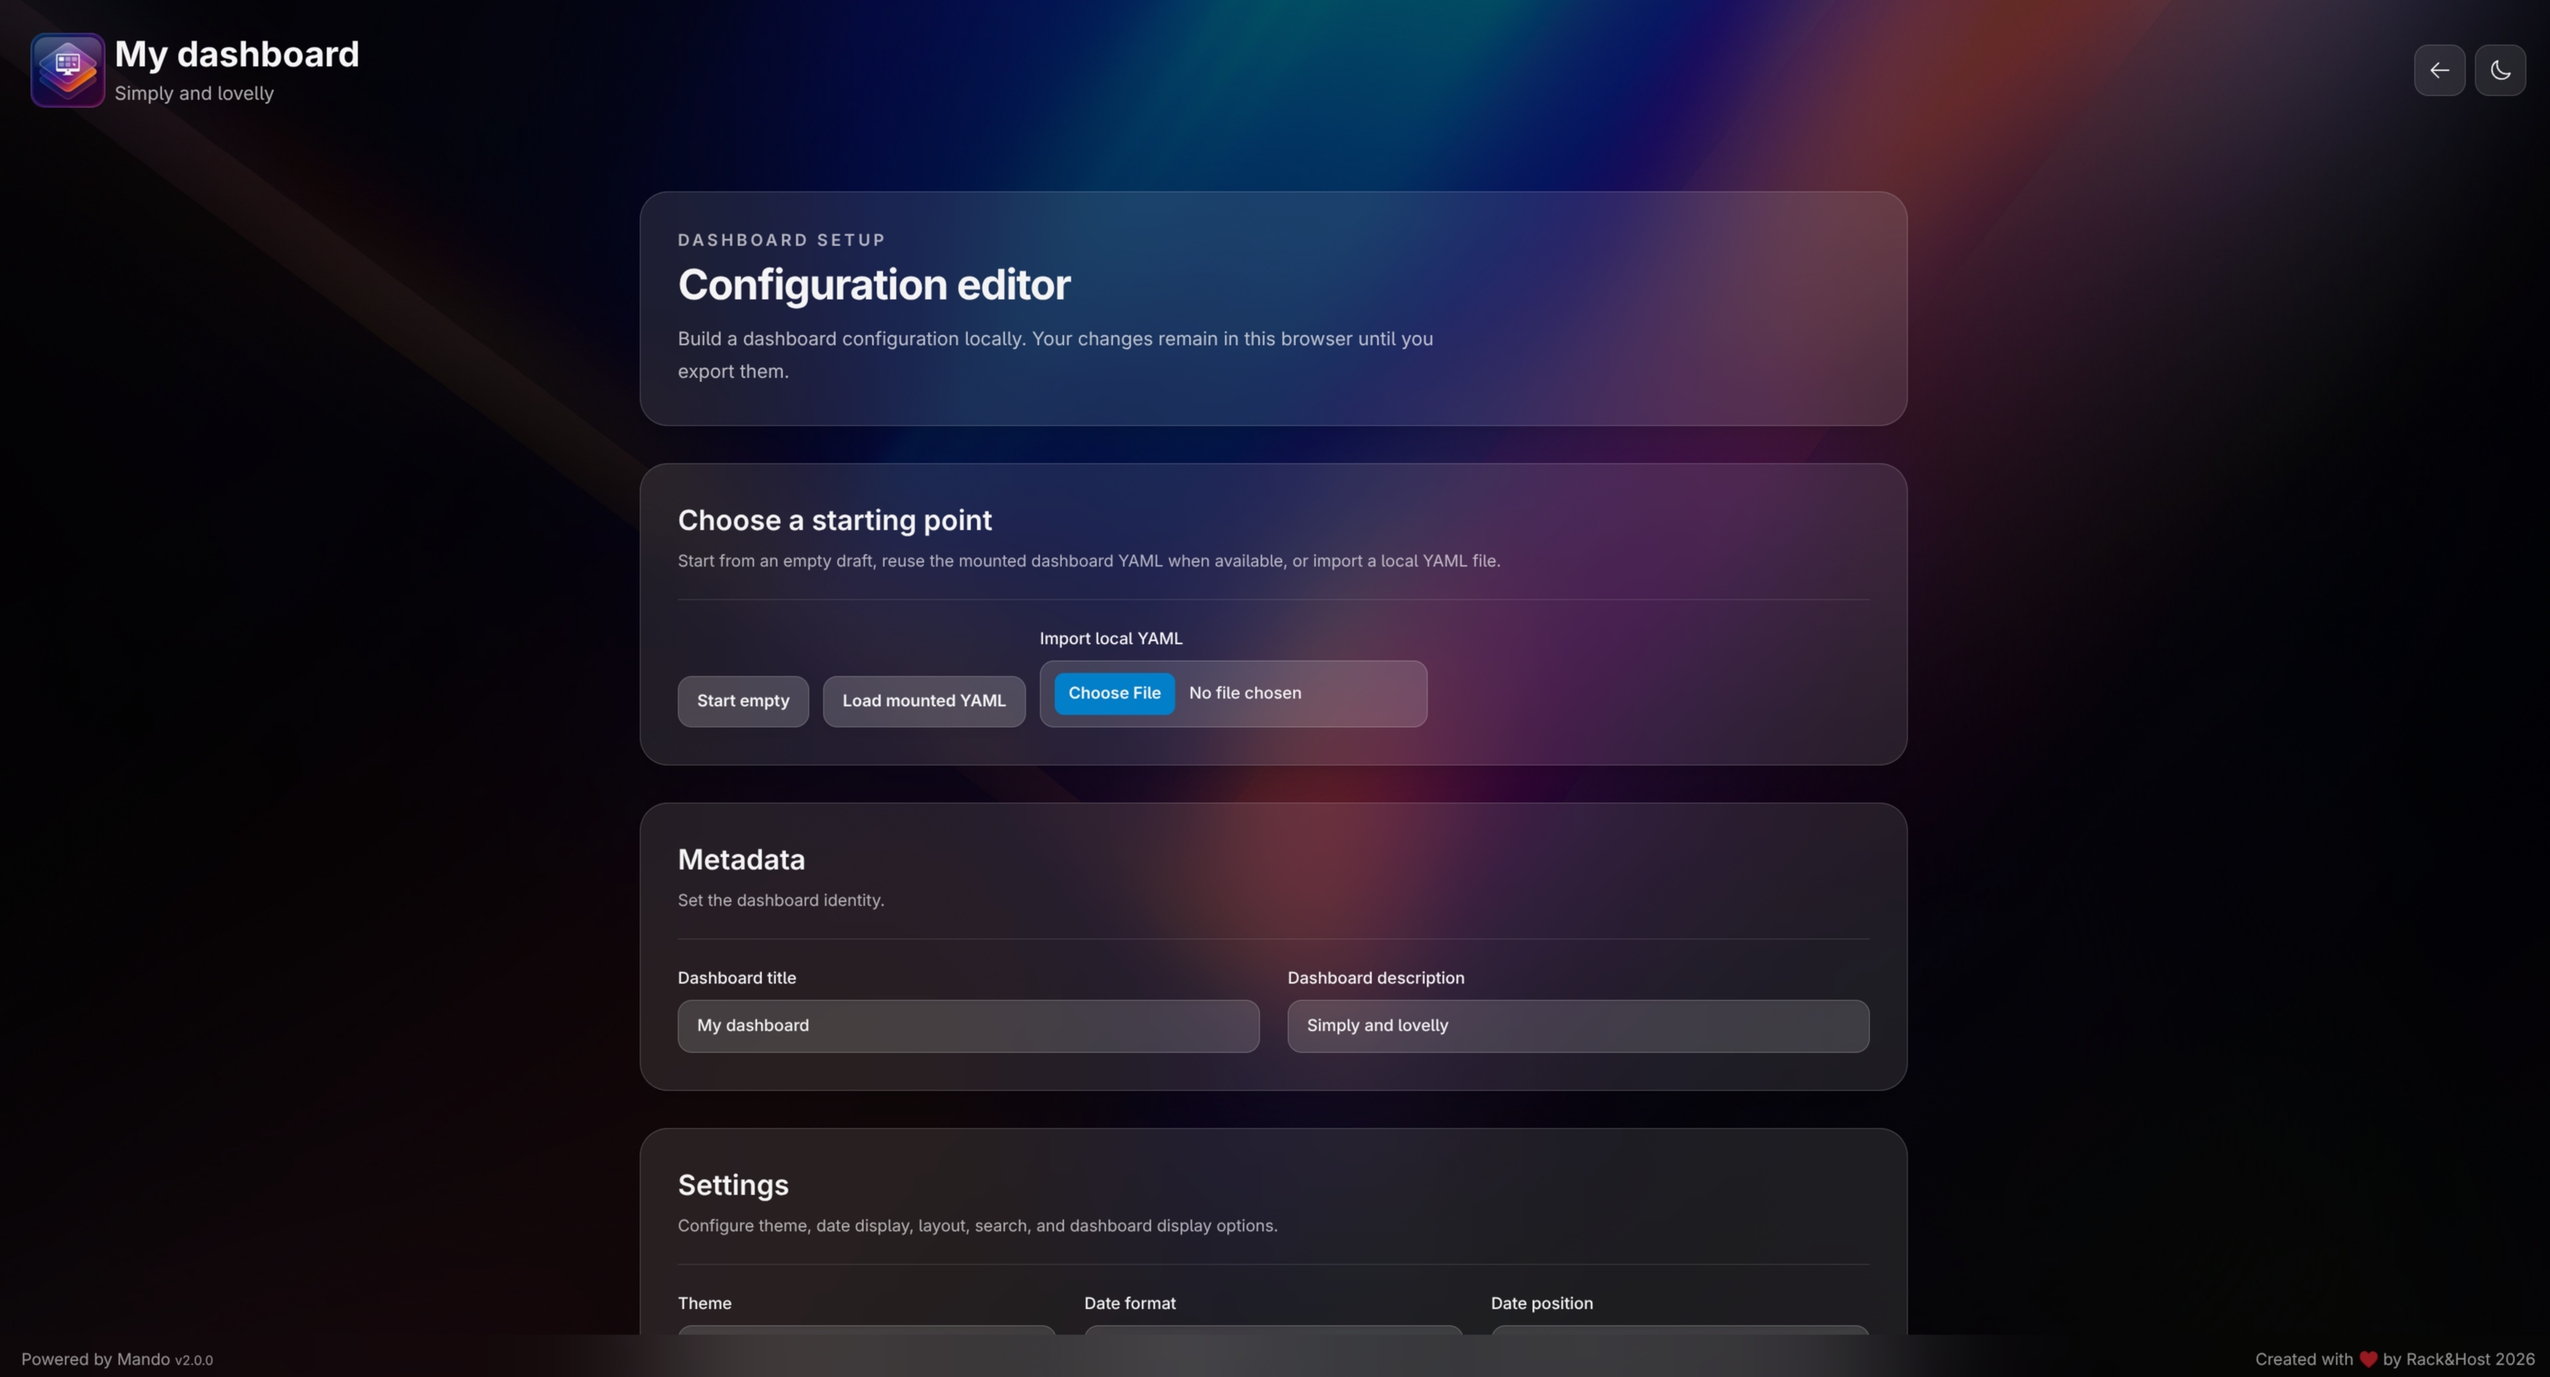
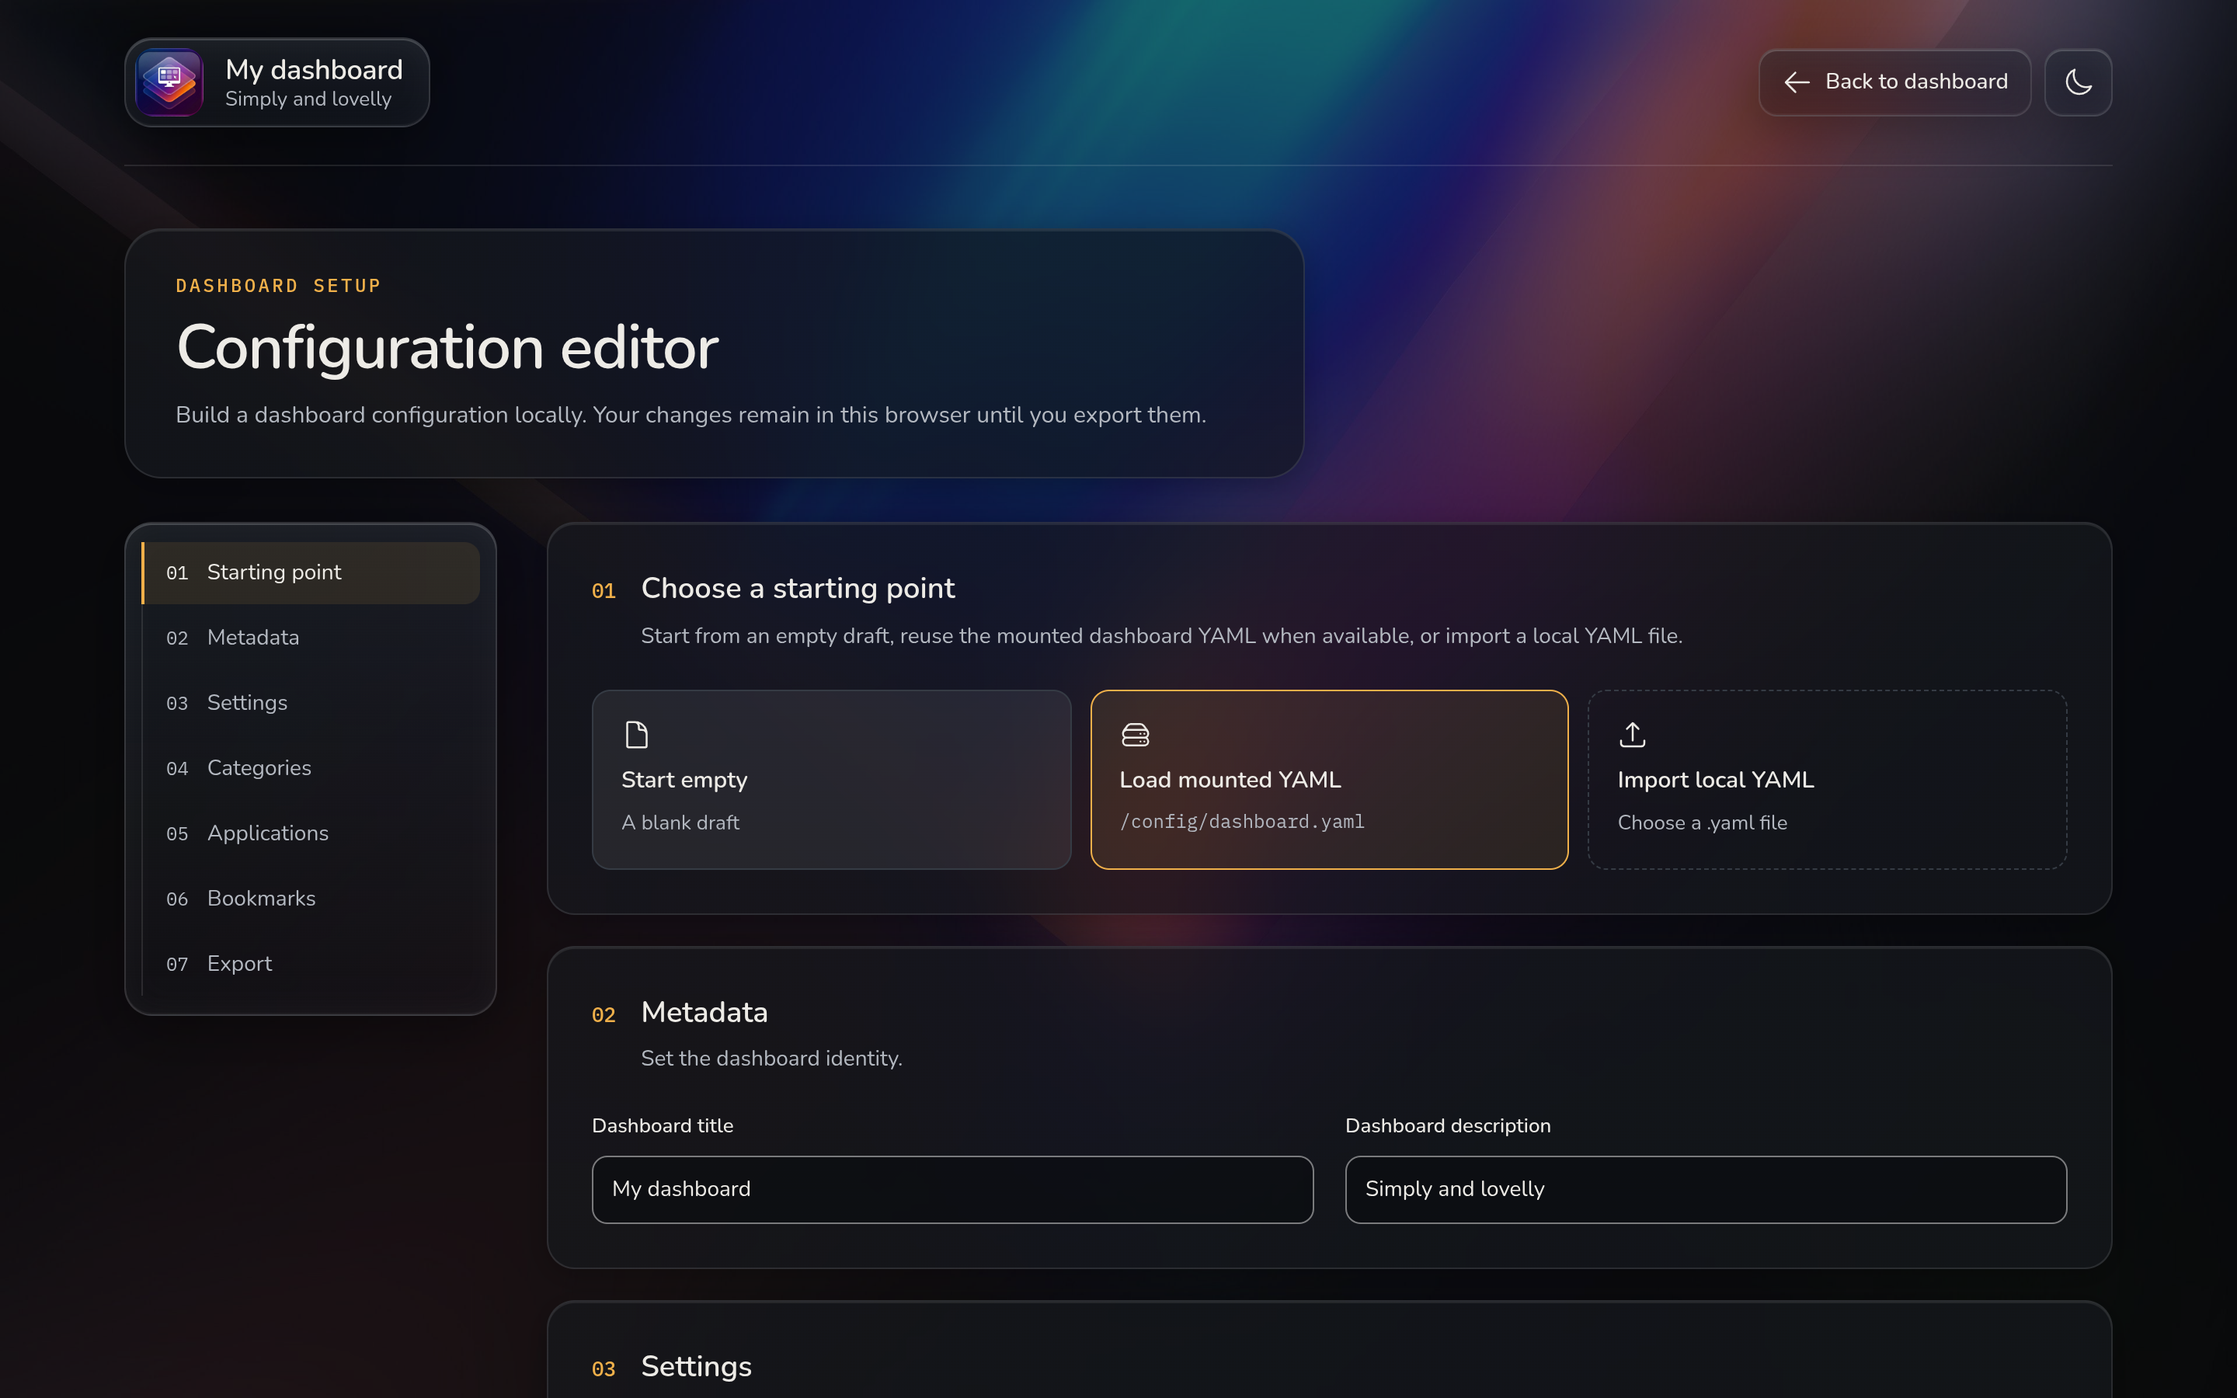
docs: update README, ARCHITECTURE, CHANGELOG and screenshots for the UI redesign

diff --git a/src/styles/surfaces.css b/src/styles/surfaces.css
@@ -1,5 +1,5 @@
 /*
- * Surface recipes of the "Consola" redesign (design.md § 3.2, spec design-system "Glass surfaces with a
+ * Surface recipes of the UI redesign (design.md § 3.2, spec design-system "Glass surfaces with a
  * legibility floor"). Components take a recipe class and add only their own radius and layout.
  *
  * glass-chrome  header chip, buttons, search bar, tab bar, footer, sticky bands   floor --floor-bar

diff --git a/src/styles/tokens.css b/src/styles/tokens.css
@@ -1,5 +1,5 @@
 /*
- * Design tokens of the "Consola" redesign (design.md § 3.1, § 3.2, with the accessibility amendments).
+ * Design tokens of the UI redesign (design.md § 3.1, § 3.2, with the accessibility amendments).
  * Light set on :root, dark set under the `dark` class that ThemeService puts on <html>.
  * Every token is declared in both sets. Contrast is enforced by src/styles/design-tokens.spec.ts.
  */

diff --git a/src/styles/base.css b/src/styles/base.css
@@ -1,5 +1,5 @@
 /*
- * Base layer of the "Consola" redesign (design.md § 3, § 4.1, § 5): page background and scrim, scroll
+ * Base layer of the UI redesign (design.md § 3, § 4.1, § 5): page background and scrim, scroll
  * stability, focus ring and reduced motion. Colours come from tokens.css.
  */
 

diff --git a/ARCHITECTURE.md b/ARCHITECTURE.md
@@ -66,11 +66,15 @@ src/
       errors/             last-resort global error handling
       initializers/       startup orchestration
       models/             Zod schemas, inferred types, defaults, shared validation
+      scroll/             ScrollStateService, its pure core and the browser metrics token
       services/           configuration, state, domain operations, and diagnostics
     features/
       configurator/       browser-based YAML editor, loaded as a lazy route
-    shared/components/    reusable or feature-level presentation components
+    shared/
+      components/         reusable or feature-level presentation components
+      directives/         sticky dock and horizontal-nav directives
     views/dashboard/      dashboard page composition
+  styles/                 design tokens, glass surface recipes, base layer, self-hosted fonts
   testing/                shared test helpers and tooling regression tests
 public/
   config/                 runtime YAML and user-facing example
@@ -118,9 +122,11 @@ through the `getmando.code-workspace` multi-root workspace.
 [app.routes.ts](src/app/app.routes.ts) declares two routes. `''` renders `DashboardComponent`
 directly. `configure` lazy-loads `CONFIGURATOR_ROUTES`, which provides `ConfiguratorStore` and
 renders `ConfiguratorPageComponent`. [AppShellComponent](src/app/shared/components/app-shell/app-shell.component.ts)
-— a fixed header, a scrollable `<router-outlet>`, and a fixed footer — wraps both routes.
-`AppHeaderComponent` derives one navigation control from the active URL that toggles between the
-dashboard and the configurator.
+is a centred page container (max 1360 px) shared by both routes: the window scrolls, the routed page
+renders its own `AppHeaderComponent` and sticky chrome, and the shell appends the footer in normal
+flow. `AppHeaderComponent` derives one navigation control from the active URL that toggles between
+the dashboard and the configurator; each page decides how its header compacts (see Scroll State
+and Sticky Chrome).
 
 ## Startup and Configuration
 
@@ -324,6 +330,8 @@ Examples:
   the `configure` route.
 - `AppStatusService` owns the statuses signal keyed by application id and its polling lifecycle (see
   App Status Checks).
+- `ScrollStateService` owns one scroll state (`static`, `top` or `scrolled`) per sticky chrome (see
+  Scroll State and Sticky Chrome).
 
 Use RxJS for HTTP, browser event streams, debounce, or multi-source asynchronous orchestration. Do
 not introduce `BehaviorSubject` as a general store or wrap synchronous signal state in observables.
@@ -348,6 +356,56 @@ settings and resolved theme.
 Storage failures are non-fatal. A read failure logs and warns, then falls back to configured theme.
 A write failure logs and warns, while preserving the user's selection for the current session. The
 YAML setting itself is not written to browser storage.
+
+## Design Tokens and Glass Surfaces
+
+The look comes from three CSS files under [src/styles](src/styles), imported by `styles.css`:
+
+- [tokens.css](src/styles/tokens.css) declares every colour, radius, shadow, glass blur and
+  legibility floor twice: the light set on `:root` and the dark set under the `dark` class that
+  `ThemeService` puts on `<html>`. A token exists in both sets or in neither.
+- [surfaces.css](src/styles/surfaces.css) holds the recipes `glass-chrome`, `glass-clock`,
+  `glass-card` and `glass-field`. A component takes a recipe class and adds only its own radius and
+  layout. Each glass surface paints an opaque `--surface` floor of token-defined opacity under a
+  translucent glass layer, so text keeps its contrast over any user-configured background photo;
+  without `backdrop-filter` support the opaque fallback is painted instead.
+- [base.css](src/styles/base.css) holds the page background and scrim, the two-tone focus ring,
+  the reduced-motion rules, `scrollbar-gutter: stable` and the smooth scrolling that applies only
+  while the configurator is mounted. [fonts.css](src/styles/fonts.css) declares the self-hosted
+  Nunito and IBM Plex Mono Latin subsets.
+
+[design-tokens.spec.ts](src/styles/design-tokens.spec.ts) measures every text / surface pair of both
+themes, with and without `backdrop-filter`, through `src/testing/token-audit.ts`. Changing a token
+or a recipe is verified there before any browser check.
+
+## Scroll State and Sticky Chrome
+
+The dashboard dock (clock, search and categories), the mobile dock and the configurator header are
+sticky chromes that compact once the page scrolls. They share one decision-maker,
+[ScrollStateService](src/app/core/scroll/scroll-state.service.ts), instead of each listening to
+scroll on its own.
+
+- A chrome registers a `ChromeProbe` (`id`, `compactDelta`: the height it loses when compact, and
+  `minViewportHeight`) through
+  [StickyDockDirective](src/app/shared/directives/sticky-dock.directive.ts) and receives a signal
+  `static | top | scrolled`. The directive exposes it as `data-dock` and exposes the live height as
+  `--dock-height`; templates and styles key off those.
+- [scroll-state.ts](src/app/core/scroll/scroll-state.ts) is the pure core, with no Angular and no
+  DOM. `Top → Scrolled` above 40 px of scroll, back at 4 px. A chrome is *eligible* to compact only
+  if the scroll left after compaction reaches 80 px (off again below 56 px), measured against the
+  document height *as it would be in the Top layout*; flipping modes therefore cannot change the
+  condition that triggered it. A viewport shorter than the probe's `minViewportHeight` keeps the
+  chrome `static`.
+- The browser only notifies. [metrics-source.ts](src/app/core/scroll/metrics-source.ts) wraps
+  scroll, resize, size observers, frames and the clock behind the `METRICS_SOURCE` token; every
+  decision is taken in an animation frame from fresh measurements. Tests replace the token with a
+  fake document and clock.
+- A change leaves the chrome 400 ms to finish animating (none under reduced motion), and more than
+  four changes in two seconds latch it `static` until the layout changes. That breaker is the last
+  defence against a feedback loop, not the normal path.
+- [HorizontalNavDirective](src/app/shared/directives/horizontal-nav.directive.ts) maps the wheel to
+  sideways scrolling and reports which edge of a tab bar still hides content so a fade is drawn
+  there; the configurator's `ChipAutocenterDirective` keeps the active chip centred.
 
 ## Error and Notification Flow
 
@@ -383,10 +441,15 @@ place host behavior in the decorator `host` object.
 
 Templates use native control flow and simple expressions. Prefer semantic HTML and preserve visible
 focus, keyboard operation, accessible names, ARIA relationships, and WCAG AA contrast. Static image
-work should use `NgOptimizedImage` where applicable. The search engine selector is a useful local
-reference for parent-child output, keyboard navigation, and focus restoration;
-`CollectionEditorComponent` is the reference for editing a list of items with add, remove, and
-reorder, per-row field errors, and focus management after add and remove.
+work should use `NgOptimizedImage` where applicable. Surfaces take a recipe class from
+`surfaces.css` and colours from tokens; do not hard-code either in a template. The search engine
+selector is a useful local reference for parent-child output, keyboard navigation, and focus
+restoration; `CollectionEditorComponent` is the reference for editing a list of items with add,
+remove, and reorder, per-row field errors, and focus management after add and remove.
+
+The form controls of the configurator are shared components: `AppSegmentedComponent` (radio group),
+`AppSwitchComponent` (switch) and `AppSelectComponent` (listbox select). `AppClockComponent` renders
+the clock in its full and compact forms.
 
 ## Testing and CI
 
@@ -462,6 +525,8 @@ Kustomize base with `kubectl kustomize` and kubeconform. A separate workflow rea
 | Configurator editing or export | `ConfiguratorStore`, `configurator-page.component`, `YamlCodecService`     | Draft validation, per-field errors, canonical YAML, empty-draft guard  |
 | Config write / Save            | `ConfigWriteService`, `server/src/app.ts`, `write-config.ts`, `nginx.conf` | Token auth, shared-schema rejection, atomic write + `.bak`, proxy path |
 | App status badges              | `AppStatusService`, `app-card`, `status-poller.ts`, `status-checker.ts`    | Opt-in default, any response is up, polls only while monitored         |
+| Sticky dock or header behavior | `ScrollStateService`, `StickyDockDirective`, the page's dock markup        | Pure-core specs, loop-free eligibility, breaker, reduced motion, short viewports |
+| Colours, surfaces, blur        | `tokens.css`, `surfaces.css`, `design-tokens.spec.ts`                      | Contrast audit in both themes, with and without `backdrop-filter`      |
 | Theme or backgrounds           | `ThemeService`, `SettingsService`, dashboard view                          | Precedence, storage failures, auto media changes, both backgrounds     |
 | Search or categories           | `SearchService`, `CategoryService`, `AppService`                           | Local UI state, computed filtering, keyboard behavior                  |
 | Notifications or errors        | Producer, `NotificationService`, `GlobalErrorHandler`                      | One notification owner, safe copy, diagnostics, root toast             |

diff --git a/CHANGELOG.md b/CHANGELOG.md
@@ -2,6 +2,19 @@
 
 ## Unreleased
 
+### New Features
+
+- **Interface redesign**: the dashboard and the configurator have a new look built on shared design tokens and glass surfaces that keep an opaque floor under the glass, so text stays legible over any background image in both themes. The dashboard has a one-row clock and a sticky dock (clock, search, categories) that compacts into a band while you scroll; on phones the search and tabs stick on their own. The dock only compacts when the page has enough rows to keep scrolling and the window is tall enough (720 px; 500 px on the phone layout and the configurator), so it never loops between its two states. The configurator has a section navigation (a column on desktop, a chip bar up to 900 px), inline row editors, an error summary whose entries jump to the field, and no horizontal overflow down to 195 px. Nunito and IBM Plex Mono are now served by the app instead of Google Fonts. No change to `dashboard.yaml`.
+- **Write capability endpoint**: the sidecar exposes a public, read-only `GET /api/capabilities` that answers `{ "write": boolean }`. The configurator disables Save when the server reports that writing is off (no `CONFIG_WRITE_TOKEN`); if the endpoint cannot be reached Save stays enabled, as before. The endpoint never returns the token.
+
+### Bug Fixes
+
+- **Accessibility findings of the previous UI**: the toast host no longer carries an ARIA attribute that its role prohibits, and each application card's accessible name now contains its visible text. Lighthouse accessibility goes from 96 to 100 on desktop and mobile.
+
+### Testing & Quality
+
+- **Performance**: Lighthouse performance median 86 on desktop (84 before) and 61 on mobile (62 before); the initial bundle is 770.9 kB against 743.4 kB on `develop` (the 500 kB warning budget was already exceeded). With a hardware GPU the dashboard keeps its frame rate while scrolling at 4× CPU throttle; with a software rasteriser (no GPU) the sticky band's blur over many cards can drop desktop frames.
+
 ### Documentation
 
 - **Specs moved to their own repository**: the `openspec/` directory now lives in

diff --git a/README.md b/README.md
@@ -27,7 +27,7 @@
 
 ### ✨ Key Features
 
-- **🎨 Inspiring Design** - Minimalist interface with glassmorphism effects
+- **🎨 Inspiring Design** - Minimalist glass interface in light and dark themes: a one-row clock, a search dock that compacts as you scroll, and surfaces that stay legible over any background photo
 - **⚡ Fast & Lightweight** - Built with Angular 21 and TailwindCSS 4 for optimal performance
 - **🔍 Real-time Search** - Instant search through your applications
 - **🏷 Categories** - Organize your apps into customizable categories
@@ -516,6 +516,15 @@ bookmarks:
 | `searchEngines`        | `array[string]` | `[]`             | See below               | Available search engines                      |
 | `lightBackgroundImage` | `string`        | `background.jpg` | -                       | Custom image or url as light theme background |
 | `darkBackgroundImage`  | `string`        | `background.jpg` | -                       | Custom image or url as dark theme background  |
+
+**Backgrounds and legibility:** every card, bar and panel keeps an opaque floor under its glass, so
+text keeps its contrast over any image you set in `lightBackgroundImage` / `darkBackgroundImage`,
+bright or dark.
+
+**Scrolling:** the search dock (clock, search and categories) and the phone's search and tabs
+compact into a band while you scroll, but only when the page has enough rows to keep scrolling
+afterwards (roughly four rows of apps on a 1440 × 900 window). With fewer apps, or on a window
+shorter than 720 px (500 px on the phone layout and the configurator), they stay where they are.
 
 **Search Engine Options:**
 - `google` - Google Search
